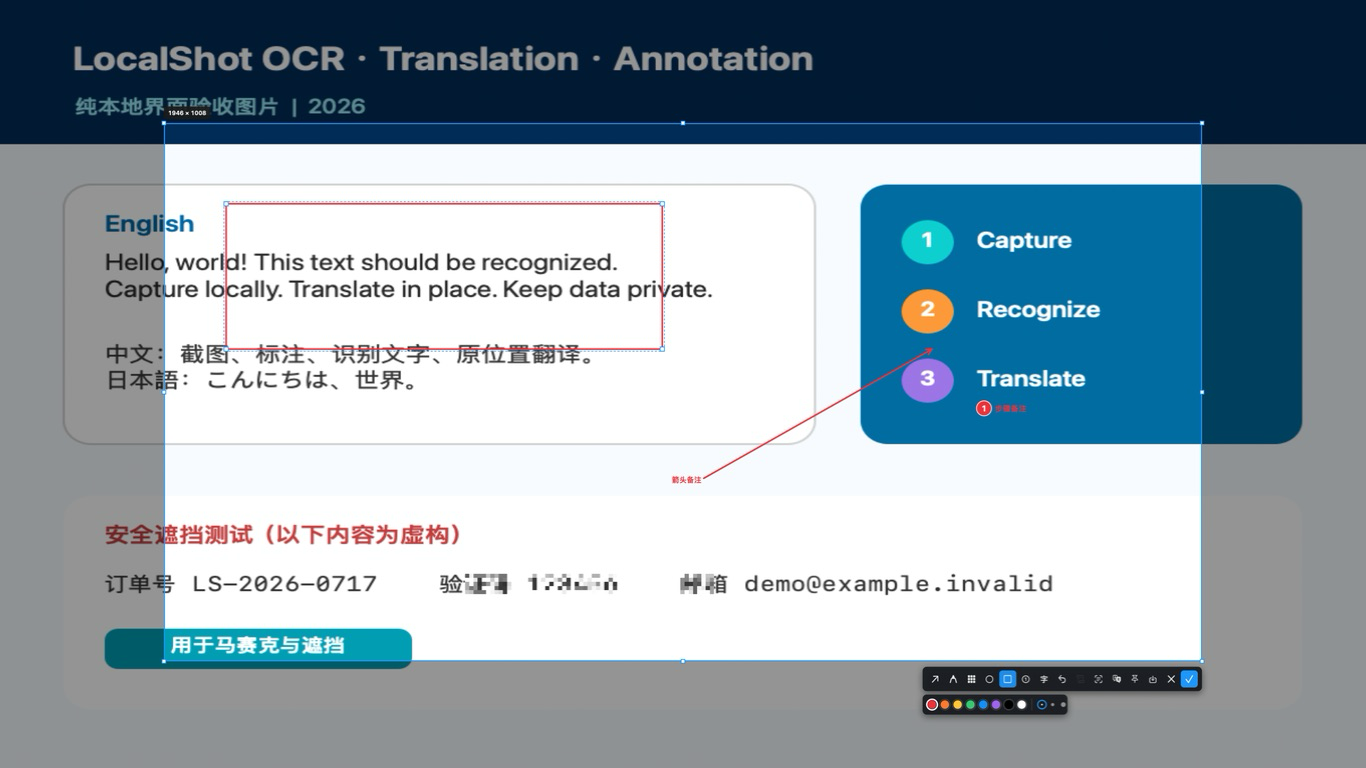
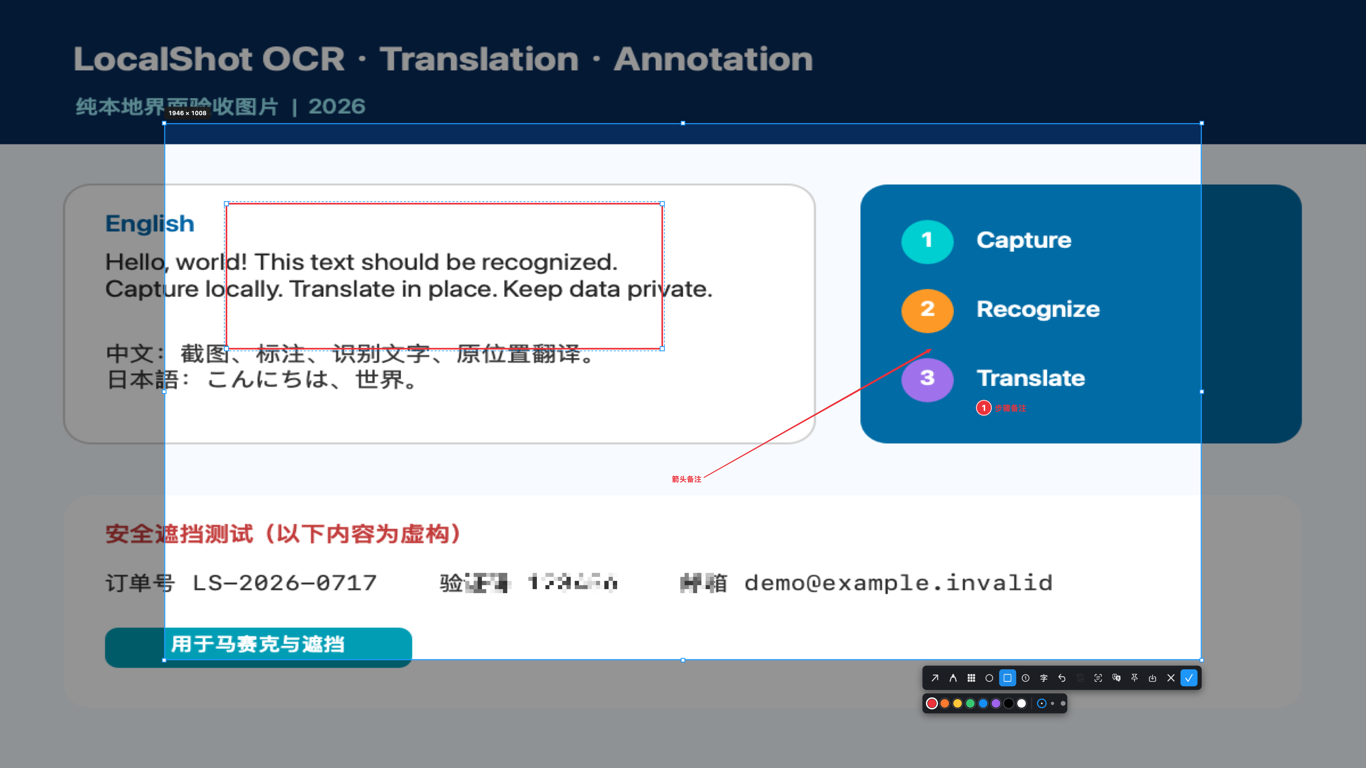
发布 LocalShot 0.1.3 Build 6

diff --git a/RELEASE_NOTES_v0.1.3-build6.md b/RELEASE_NOTES_v0.1.3-build6.md
@@ -1,0 +1,30 @@
+# LocalShot 0.1.3（Build 6）公开测试版
+
+这是 LocalShot 的 Build 6 视觉与标注更新，仅支持 Apple 芯片 Mac。
+
+包含区域、窗口、全屏和手动区域长截图，以及标注、本地 OCR、系统翻译、截图置顶、图片美化、本地历史和离线永久授权。
+
+## 本次更新
+
+- 区域截图默认使用高饱和彩虹箭头光标，并增加深色描边与浅色外缘，在浅色和深色画面中都更容易定位。
+- 彩虹光标的左上尖端保持为真实热点，不会造成框选起点偏移。
+- 标注箭头改为尾部较窄、箭身逐渐加粗并连接大实心三角头的样式。
+- 快捷截图浮层、完整标注编辑器和最终 PNG 导出共用同一箭头几何，避免预览与保存结果不一致。
+- 实心箭头的边界和命中区域同步扩大，三角头仍可直接选中、移动、旋转和缩放。
+
+## 从旧版本升级
+
+Build 5 用户可通过软件内更新提示下载 Build 6。Build 4 及更早版本需要从本仓库手动下载 DMG。
+
+覆盖安装不会主动删除截图历史、设置或离线授权。当前安装包仍未经 Apple 公证，macOS 也可能要求重新确认屏幕捕获权限。
+
+## 下载文件
+
+- `LocalShot-0.1.3-build6-offline-license-arm64.dmg`：客户安装包。
+- `SHA256SUMS-v0.1.3-build6-public.txt`：安装包完整性校验值。
+
+## 重要提示
+
+- 当前版本未经 Apple 公证，macOS 首次启动时可能需要在“系统设置 → 隐私与安全性”中点击“仍要打开”。
+- 请勿从第三方转载链接下载安装包。
+- 安装、升级或激活方法见仓库中的 `INSTALL.md`。

diff --git a/INSTALL.md b/INSTALL.md
@@ -7,7 +7,7 @@
 
 ## 安装
 
-1. 从本仓库的 Releases 下载 `LocalShot-0.1.2-build5-offline-license-arm64.dmg`。
+1. 从本仓库的 Releases 下载 `LocalShot-0.1.3-build6-offline-license-arm64.dmg`。
 2. 双击打开 DMG。
 3. 将 `LocalShot.app` 拖入 `Applications`（应用程序）文件夹。
 4. 在应用程序文件夹中打开 LocalShot。
@@ -38,9 +38,9 @@ LocalShot 不需要辅助功能权限即可完成当前手动滚动长截图。
 
 授权验证完全在本机进行，不需要登录账号或连接授权服务器。
 
-## 从 Build 4 升级
+## 升级到 Build 6
 
-Build 4 及更早版本没有更新检查功能，需要手动下载 Build 5 DMG，并把新版 `LocalShot.app` 拖入“应用程序”覆盖旧版。
+Build 5 用户可以在软件内收到 Build 6 提示并下载 DMG。Build 4 及更早版本没有更新检查功能，需要从本仓库手动下载 Build 6 DMG。打开后把新版 `LocalShot.app` 拖入“应用程序”覆盖旧版。
 
 截图历史、设置和离线授权保存在应用包之外，LocalShot 覆盖安装不会主动删除这些数据。如果 macOS 因应用签名身份变化再次询问屏幕捕获权限，请按系统提示重新允许。
 